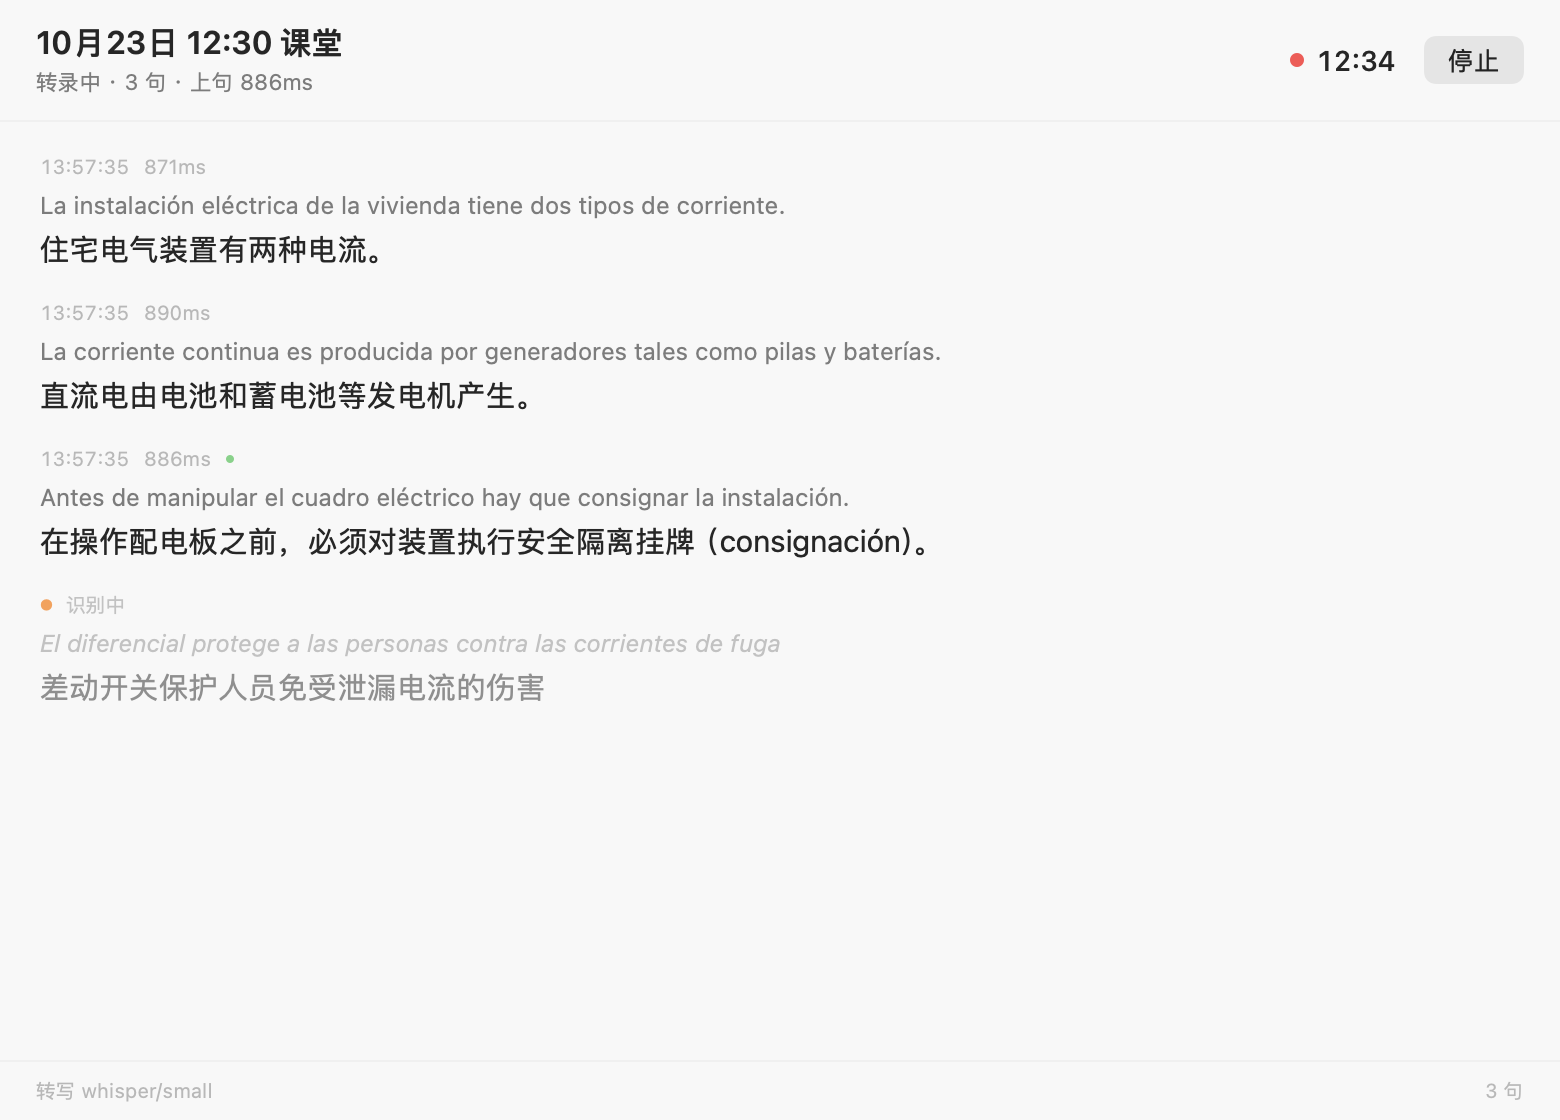
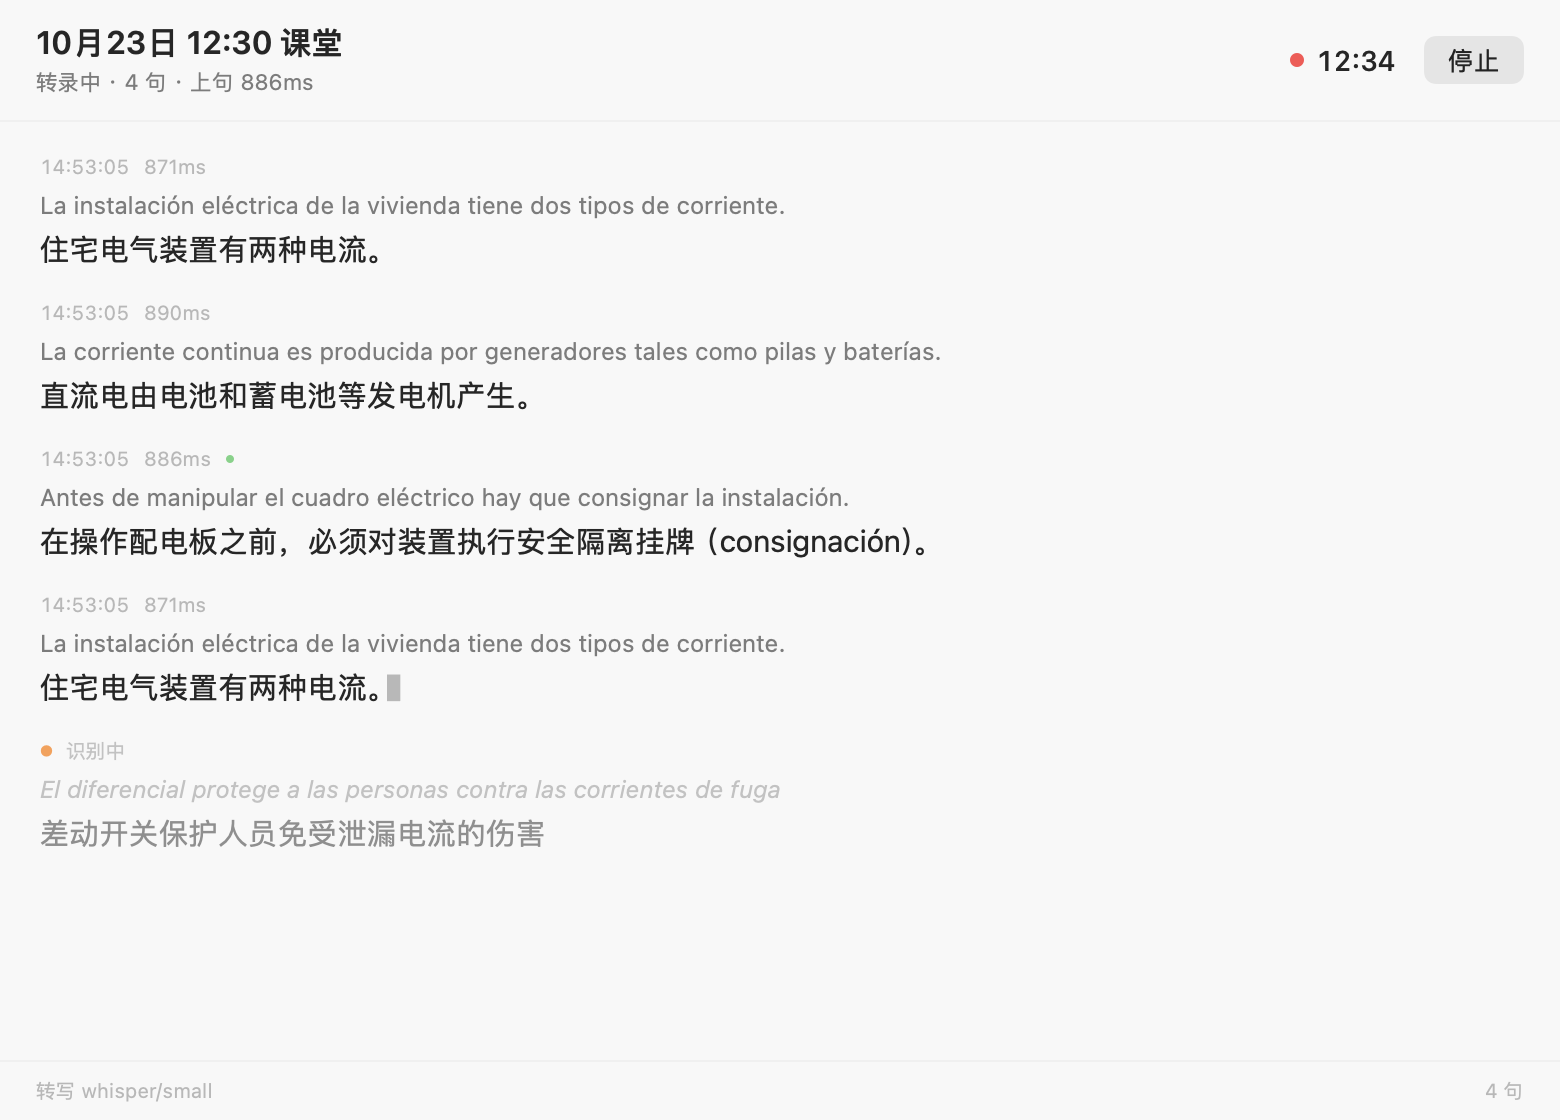
docs: 预览数据展示流式光标，更新上课界面截图

Changed region(s): [[0.0308, 0.5312, 0.4923, 0.625], [0.0308, 0.6562, 0.4923, 0.75]]

diff --git a/aula/app/ClassStore.swift b/aula/app/ClassStore.swift
@@ -470,7 +470,8 @@ final class ClassStore: ObservableObject {
         lines = (0..<max(0, count)).map { index in
             let item = samples[index % samples.count]
             return Line(id: index + 1, source: item.0, target: item.1,
-                        refined: index % 3 == 2, latencyMs: item.2, at: Date())
+                        refined: index % 3 == 2, latencyMs: item.2, at: Date(),
+                        streaming: listening && index == count - 1)
         }
         // 已结束就没有草稿行了——真实停止时 draft 也会被清空
         draft = listening ? Line(id: -1,
